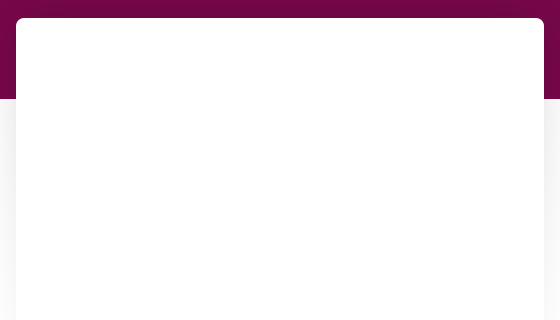
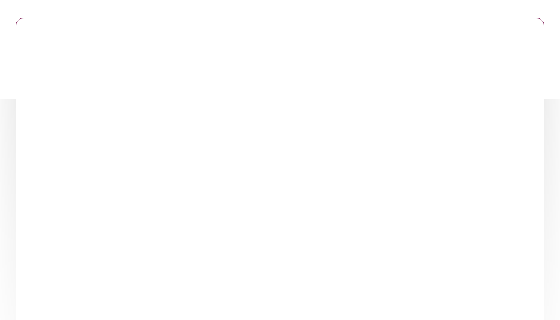
Fixed color on background

Changed region(s): [[0.0, 0.0, 1.0, 0.3125]]

diff --git a/beautboss/app/assets/stylesheets/application.css.scss b/beautboss/app/assets/stylesheets/application.css.scss
@@ -90,7 +90,7 @@ div {
   background-image: image-url("content-background.png");
   background-repeat: no-repeat;
   background-position: top;
-  background-color: #ffffff;
+  background-color: transparent;
   z-index: 999;
   width: 530px;
   min-width: 530px;
